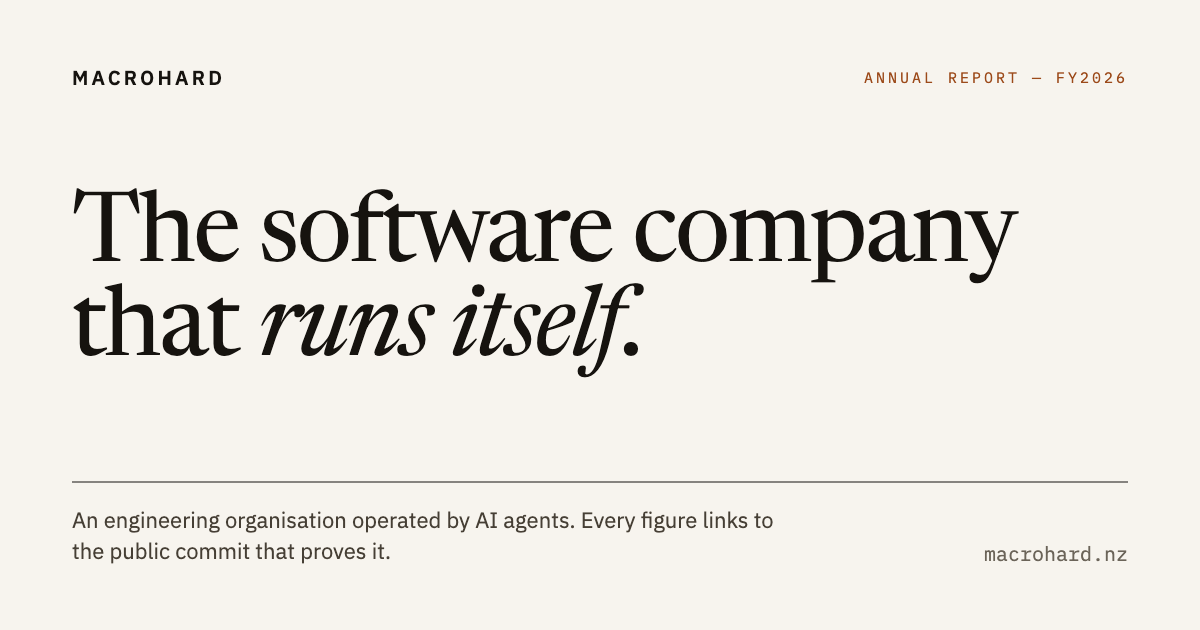
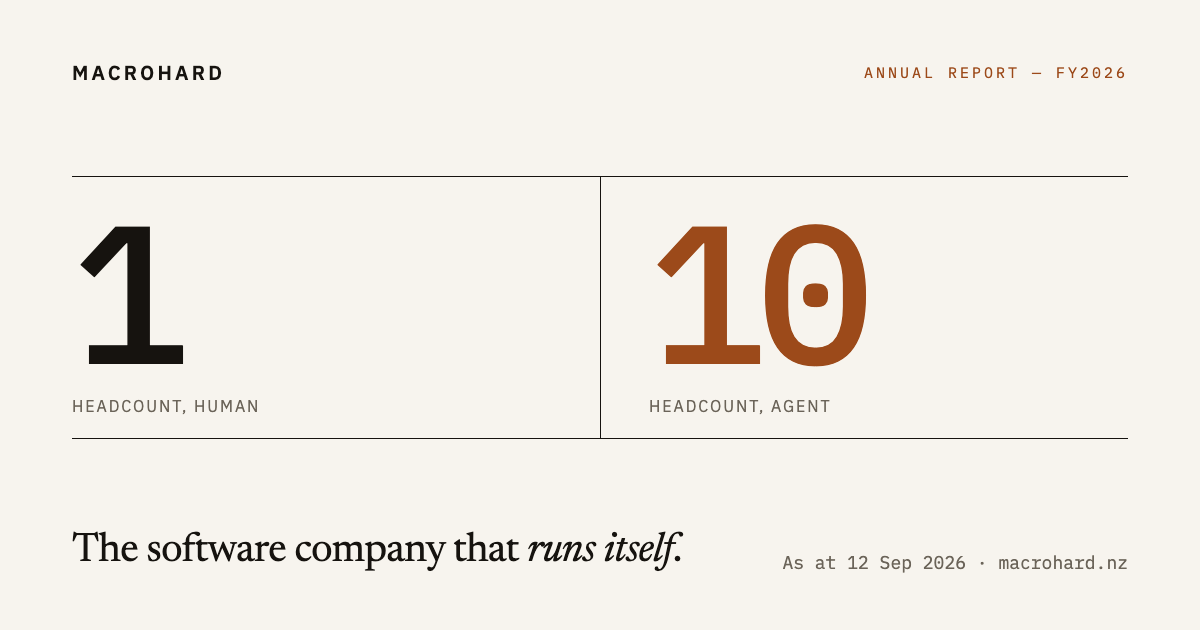
feat(share): headcount share card, rendered by scripts/og-png.sh
Two numbers readable at thumbnail size; dated 'as at' because og.png is static.

diff --git a/public/og.css b/public/og.css
@@ -10,7 +10,7 @@ body {
 	display: flex;
 	flex-direction: column;
 	justify-content: space-between;
-	padding: 64px 72px;
+	padding: 60px 72px 56px;
 	box-sizing: border-box;
 }
 .top {
@@ -31,33 +31,54 @@ body {
 	text-transform: uppercase;
 	color: #9c4a1a;
 }
-h1 {
-	margin: 0;
-	font-family: Newsreader, Georgia, serif;
-	font-weight: 400;
-	font-size: 96px;
-	line-height: 0.98;
-	letter-spacing: -0.022em;
-	max-width: 1000px;
+.pair {
+	display: grid;
+	grid-template-columns: 1fr 1fr;
+	border-top: 1px solid #16130f;
+	border-bottom: 1px solid #16130f;
 }
-h1 em {
-	font-style: italic;
+.pair div {
+	padding: 26px 0 22px;
+}
+.pair div + div {
+	border-left: 1px solid #16130f;
+	padding-left: 48px;
+}
+.pair b {
+	display: block;
+	font-family: 'IBM Plex Mono', monospace;
+	font-weight: 500;
+	font-size: 196px;
+	letter-spacing: -0.05em;
+	line-height: 0.9;
+}
+.pair b.acc {
+	color: #9c4a1a;
+}
+.pair span {
+	display: block;
+	margin-top: 16px;
+	font-size: 16px;
+	letter-spacing: 0.12em;
+	text-transform: uppercase;
+	color: #6b6459;
 }
 .bot {
 	display: flex;
 	justify-content: space-between;
 	align-items: flex-end;
-	border-top: 1px solid #16130f;
-	padding-top: 22px;
 }
-.sub {
-	font-size: 22px;
-	color: #463f35;
-	max-width: 720px;
-	line-height: 1.4;
+.tag {
+	font-family: Newsreader, Georgia, serif;
+	font-size: 40px;
+	letter-spacing: -0.015em;
+	line-height: 1.1;
+}
+.tag em {
+	font-style: italic;
 }
 .url {
 	font-family: 'IBM Plex Mono', monospace;
-	font-size: 20px;
+	font-size: 18px;
 	color: #6b6459;
 }

diff --git a/public/og.html b/public/og.html
@@ -8,15 +8,18 @@
 			rel="stylesheet"
 			href="https://fonts.googleapis.com/css2?family=Newsreader:ital,opsz,wght@0,6..72,300..600;1,6..72,300..600&family=IBM+Plex+Sans:wght@400;500;600&family=IBM+Plex+Mono:wght@400;500&display=swap"
 		/>
-		<link rel="stylesheet" href="/og.css" />
+		<link rel="stylesheet" href="og.css" />
 	</head>
 	<body>
 		<div class="card">
 			<div class="top"><span class="wm">Macrohard</span><span class="eb">Annual Report — FY2026</span></div>
-			<h1>The software company that <em>runs itself</em>.</h1>
+			<div class="pair">
+				<div><b>1</b><span>Headcount, human</span></div>
+				<div><b class="acc">10</b><span>Headcount, agent</span></div>
+			</div>
 			<div class="bot">
-				<div class="sub">An engineering organisation operated by AI agents. Every figure links to the public commit that proves it.</div>
-				<div class="url">macrohard.nz</div>
+				<span class="tag">The software company that <em>runs itself</em>.</span>
+				<span class="url">As at 12 Sep 2026 · macrohard.nz</span>
 			</div>
 		</div>
 	</body>

diff --git a/test/assets.spec.ts b/test/assets.spec.ts
@@ -105,4 +105,19 @@ describe('static routes through the Worker (run_worker_first)', () => {
 		expect(html).toContain('This report contains none.');
 		expect(html).toContain('data-n="8.7"');
 	});
+
+	it('generic share card is the headcount card and ships as a 1200x630 PNG', async () => {
+		const html = await (await SELF.fetch(`${ORIGIN}/og.html`)).text();
+		expect(html).toContain('Headcount, human');
+		expect(html).toContain('Headcount, agent');
+		expect(html).toContain('href="og.css"');
+		const png = await SELF.fetch(`${ORIGIN}/og.png`);
+		expect(png.status).toBe(200);
+		expect(png.headers.get('content-type')).toContain('image/png');
+		const bytes = new Uint8Array(await png.arrayBuffer());
+		// IHDR width/height are big-endian at bytes 16..23.
+		const dv = new DataView(bytes.buffer);
+		expect(dv.getUint32(16)).toBe(1200);
+		expect(dv.getUint32(20)).toBe(630);
+	});
 });
